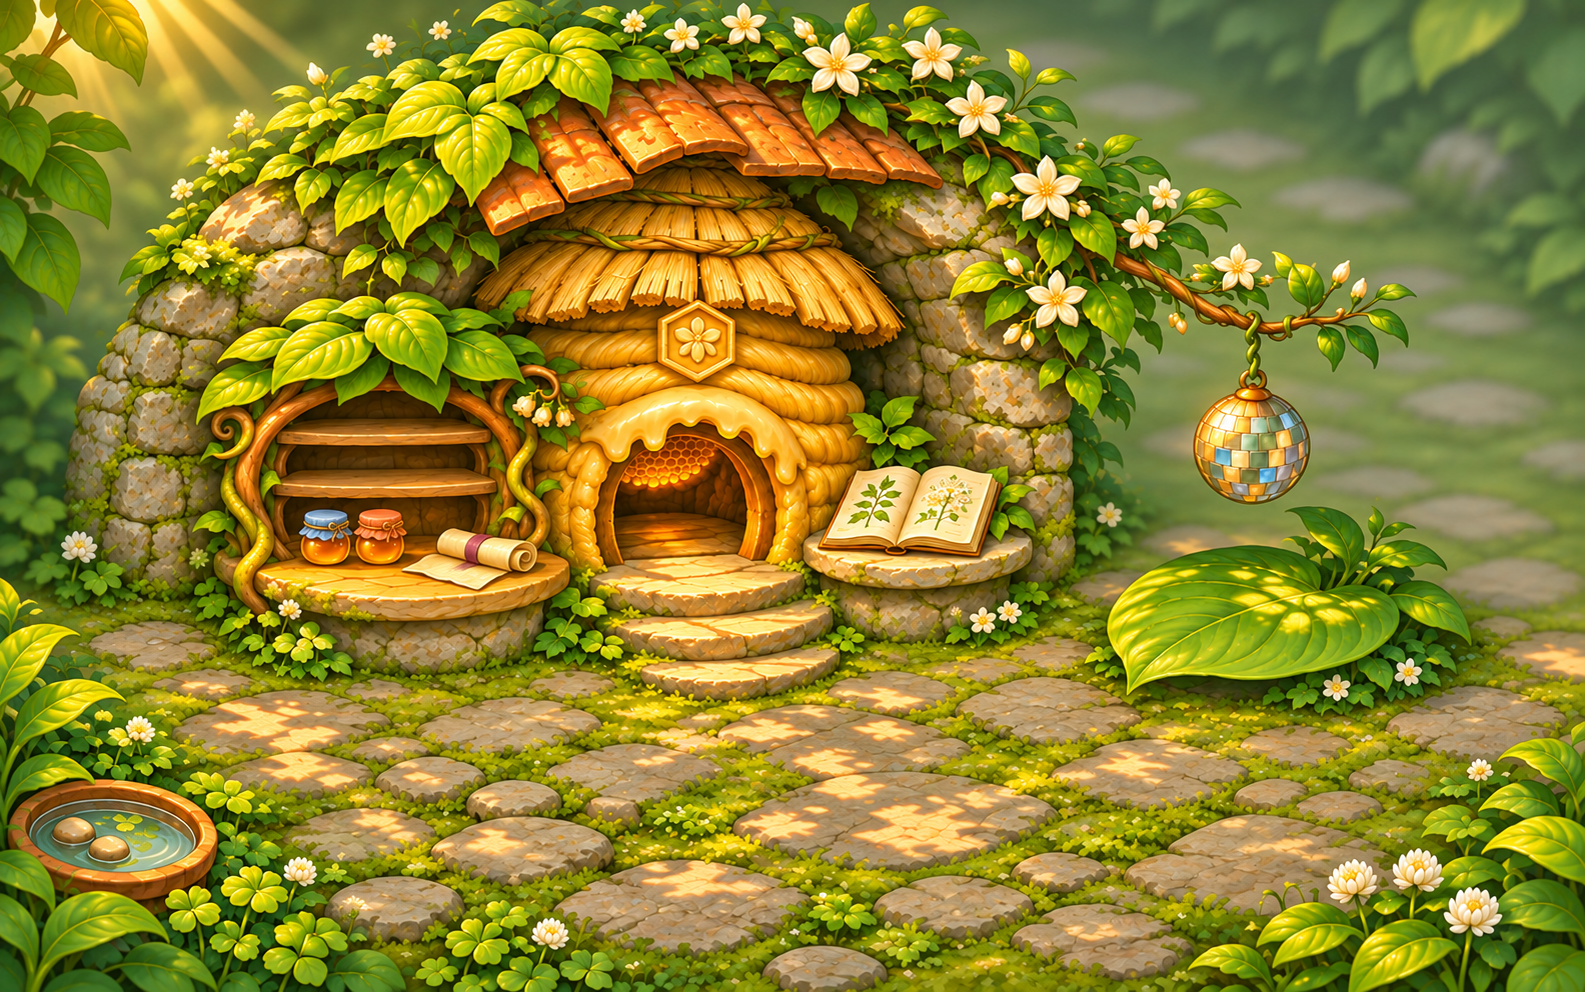
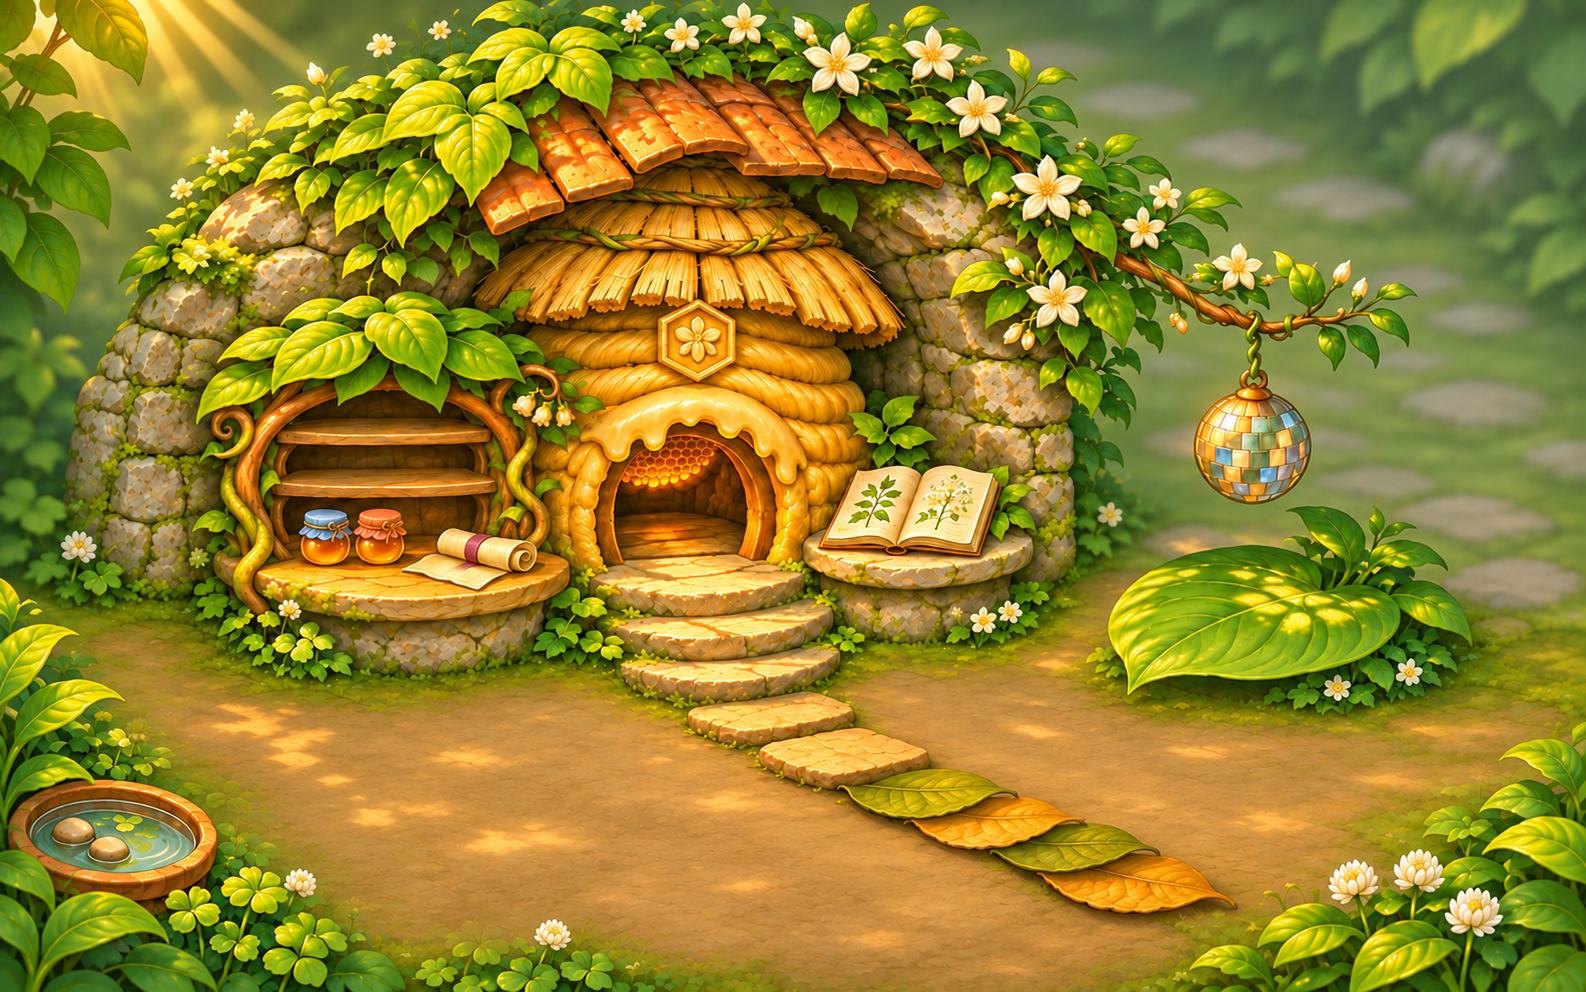
Guide the eye to the hive with a leaf path (#354)

diff --git a/docs/design/solar-term-campaign-production-spec.md b/docs/design/solar-term-campaign-production-spec.md
@@ -342,6 +342,8 @@ Alan 指出蜜蜂本来就天天、时时回蜂巢，把“归巢”抬成专有
 
 <a id="production-now"></a>
 
+**2026-11-11 · 庭院前景反馈接续 #349。** GDD §8.1/13.9 → M3/#322。门阶接窄石板与搭接叶片，两侧简化为暖土和边缘苔地。Godot 两尺寸原生复核与 69 项探针通过，[记录](../production/region-greybox-receipt.md#courtyard-path-20261111)。集成状态以原 Issue 读回为准。以下为上批历史。
+
 **2026-11-11 · 庭院视觉修订已通过限定复核，当前进入集成。** Alan三图指出成长交互不明显、场景虚实平均、陈列配色单一与HUD细节画风不统一。沿GDD§8.1/13.9→M3→#322，复开#349背景源图、#333交互/HUD、#350限定原生验证；保留0.29旧证据。只修庭院与共享HUD，不改地图、经济或存档规则。验收为两尺寸下主次／辅色／画风一致及E与点击同入口、悬停焦点反馈、两区HUD；[本批回执](../production/region-greybox-receipt.md#courtyard-feedback-20261111)保存实际状态。源图、三站按钮和HUD已完成；最终原生69项（50行为＋19截图）、旧UI74/Demo23/区域24通过，CUA键鼠及两区HUD实测完成。调试导出只作开发验证，原0.29正式候选保留；PR/CI/合并清理以原Issue最新读回为准。预计30–45分钟含验证／集成，生成与CI等待另列；200+40小时不重置，累计/可靠剩余未知、采购0、自动化PAUSED。以下为历史Now。
 
 **2026-11-10 · 两区0.29限定候选已构建，产品检查点沿#211。** GDD§8.1/13.9 SD-v1.8→M3/#322/#348–351、PR #352。自然coast与稀疏→繁盛资源成长已实现；同版原生两区主路/岔/远端/返回、14阶真实成长接入、生命周期、960/1280、冷续/旧档隔离及NH-C01–08包门禁通过。运行冻结37332f1，CI42780420591通过；最终解压双入口和冷续复验通过，产物/证据见[既有回执](../production/region-greybox-receipt.md)。本批集成/清理是否完成以PR #352和#348–351最新回读为准；唯一后续产品检查点沿#211，等待Alan对地图大小、稀疏节奏与观感的整包反馈，再在#322原链处理反馈，不另建执行队列。紫地色块边缘/简化芦苇仍是观感局限，初始两趟各2蜜不当经济节奏已接受；成长测试档不冒充从零赚取。M3/322/211保持OPEN，不扩24关。15:14:07起约82分钟至候选检查，最终集成另计；200+40小时不重置，累计/可靠剩余未知，采购0、图像2次、自动化PAUSED。以下为历史Now。

diff --git a/docs/production/region-greybox-receipt.md b/docs/production/region-greybox-receipt.md
@@ -231,3 +231,17 @@ Alan指出硬直单调岸线与过密资源，0.28原生记录仅保留历史。
 [机器回执与全部索引](evidence/courtyard-20261111/receipt.json)包含原生样图、50项行为断言结果及鼠标／离站输入trace、旧UI日志、连续媒体目录和fixture标记。完整5fps观察媒体在本机`LocalGames/courtyard-visual-review-20261111/evidence`；未逐帧审阅或验音频。临时调试导出仅用于开发复核，不冒称新NH-C01–08候选；旧0.29交付保持，未发布新正式包。
 
 **结果与成本。** 本次四点改动已完成限定技术/视觉复核；最终CI、PR合并及清理以#322/333/349/350权威读回为准，M3/父#322/产品#211保持OPEN，Alan审美接受尚未取得。显式墙钟从北京时间10:12:14起，含实现、一次生成、失败修正和原生检查；初始定位未完整覆盖，最终集成时钟回写Issue，不当主动或计费工时。采购0、图像调用1且实际费用未知；200＋40小时不重置，累计/可靠剩余不可核验，自动化PAUSED。下一检查点是Alan对该局部修订的观感，不自动追加地图或机制。
+
+
+<a id="courtyard-path-20261111"></a>
+## 2026-11-11 · 庭院归巢小径
+
+GDD §8.1/13.9 → M3 → #322/#349。根据 Alan 指出的前景铺地过平、细节过密，将门阶接入向右弯的短径。近门用两块石板，近景用四片搭接叶片和接地阴影表现起伏，两侧用低纹理暖土与边缘苔地衬托小径和主屋。使用现有庭院背景资源入口。
+
+Godot 4.6.2 原生庭院探针 69/0（50 项行为断言、19 张图）。人工查看 1280×800 和 960×600 的捕获图，核对路径连续、两侧无密集石缝、原有设施及提示位置。素材经内置 imagegen 编辑一次，[提示词、版本及校验值](../../prototypes/swarm-flight/art/nectar-courtyard-path-provenance.json)见素材记录。实际截图与探针记录保存在本机 `LocalGames/courtyard-path-review-20261111`。
+
[3 lines of base64/hex data omitted]
+
+新增采购 0，图像调用费用、累计及可靠剩余投入未知。视觉反馈检查点沿 #322，集成状态读回 #349。
